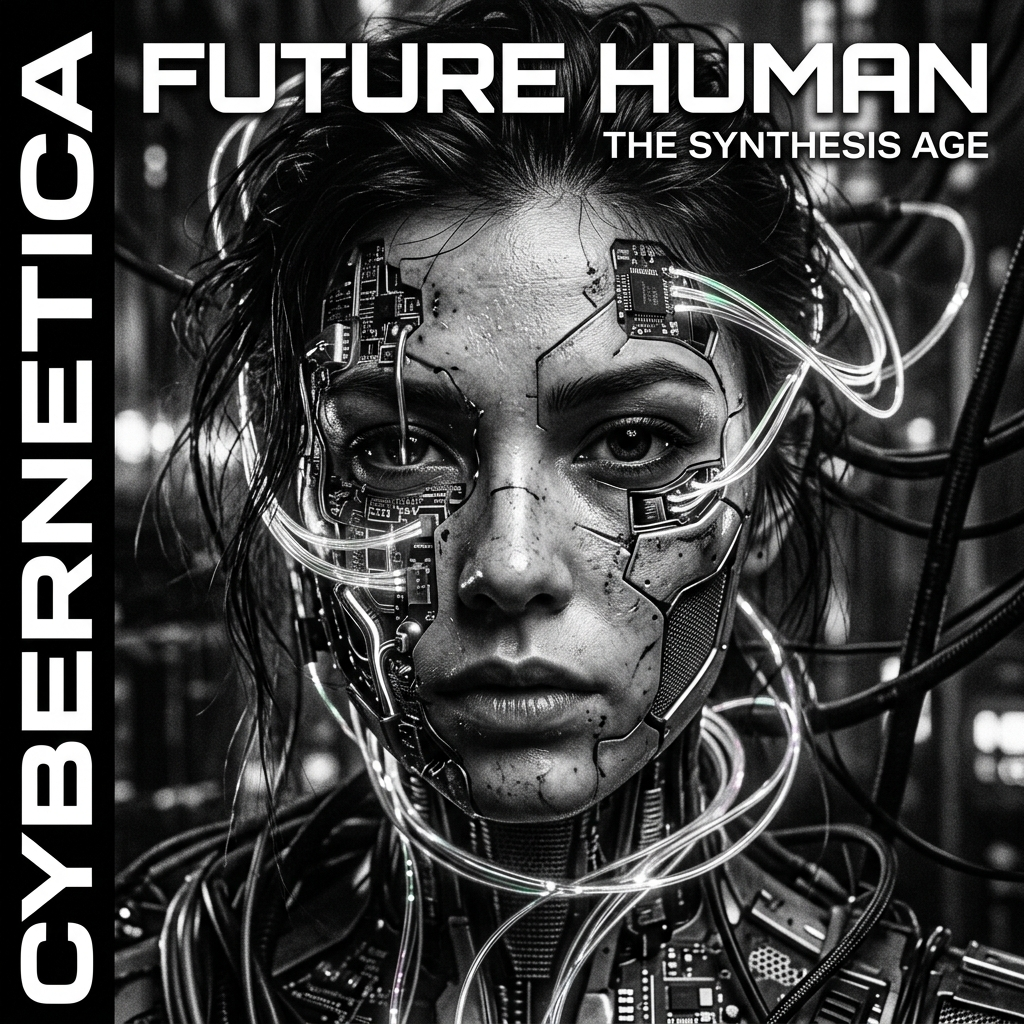
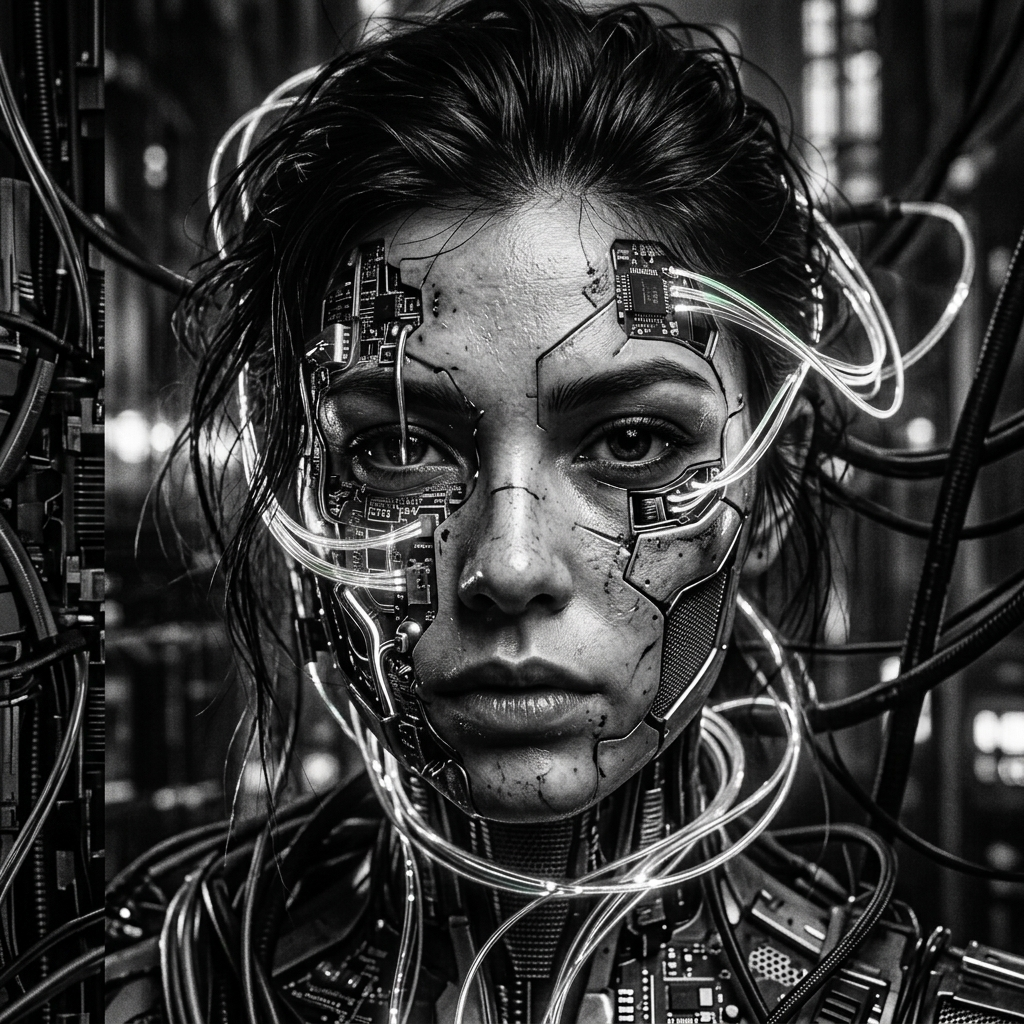
Update hero to completely textless 4k image, restore original smooth gradient, and darken image

diff --git a/src/styles/hero.css b/src/styles/hero.css
@@ -18,12 +18,12 @@
   top: 0;
   right: 0;
   left: auto;
-  width: 72%; /* Fine-tuned midpoint between 65% and 80% */
+  width: 72%;
   height: 100%;
   object-fit: cover;
   object-position: 60% 70%; /* Pushed up to show neck */
   z-index: 1;
-  filter: grayscale(100%) brightness(0.35) contrast(1.3); /* Made darker */
+  filter: grayscale(100%) brightness(0.2) contrast(1.3); /* Made much darker */
 }
 
 /* 
@@ -34,14 +34,14 @@
   position: relative;
   z-index: 2;
   width: 100%;
-  background: linear-gradient(to right, rgba(255,255,255,1) 0%, rgba(255,255,255,0.95) 25%, rgba(255,255,255,0.4) 65%, rgba(255,255,255,0) 100%);
+  background: linear-gradient(to right, rgba(255,255,255,1) 0%, rgba(255,255,255,1) 35%, rgba(255,255,255,0) 80%);
   display: flex;
   align-items: center;
 }
 
 @media (max-width: 900px) {
   .hero-overlay {
-    background: linear-gradient(to top, rgba(255,255,255,1) 0%, rgba(255,255,255,0.95) 40%, rgba(255,255,255,0) 100%);
+    background: linear-gradient(to top, rgba(255,255,255,1) 0%, rgba(255,255,255,0.9) 60%, rgba(255,255,255,0) 100%);
     align-items: flex-end;
   }
 }
